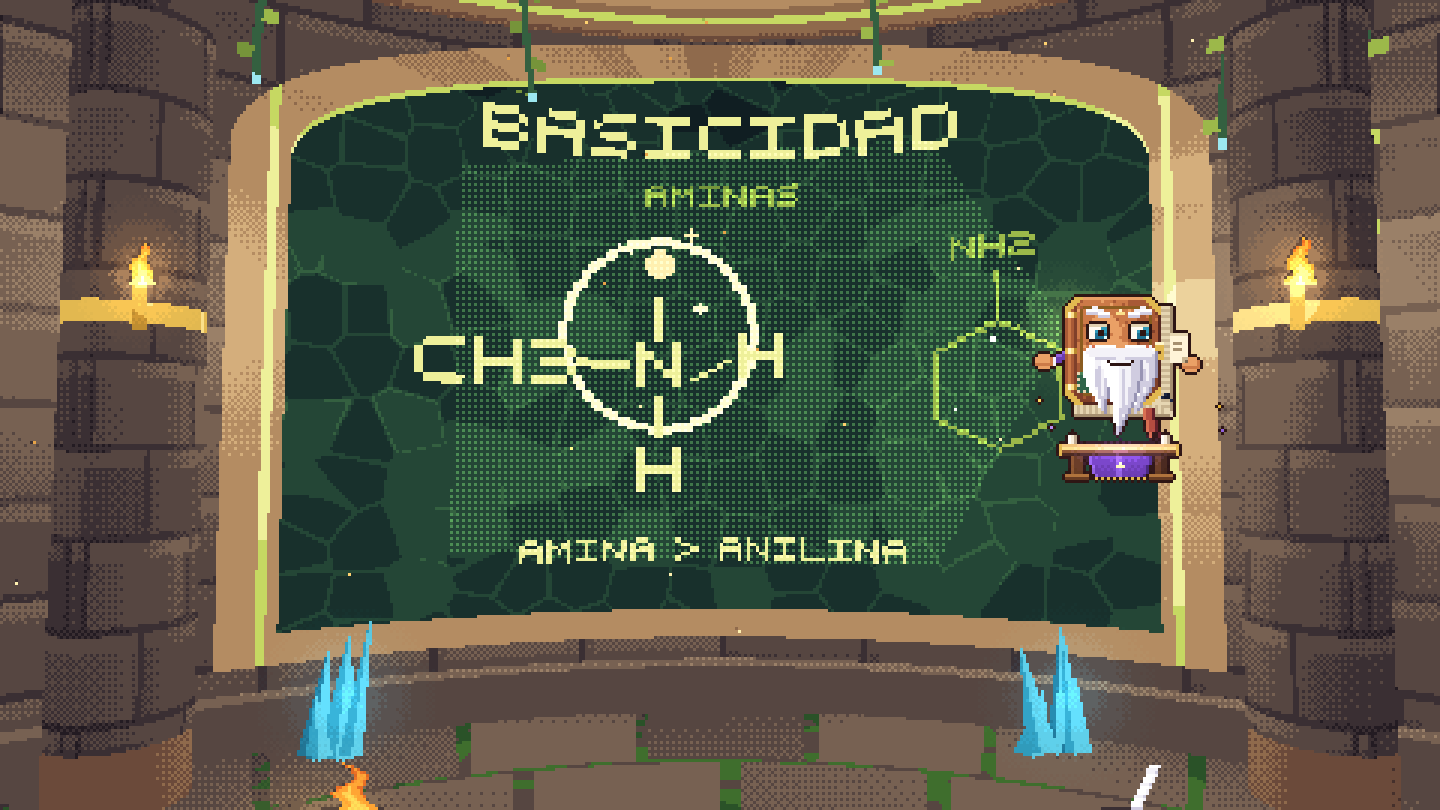
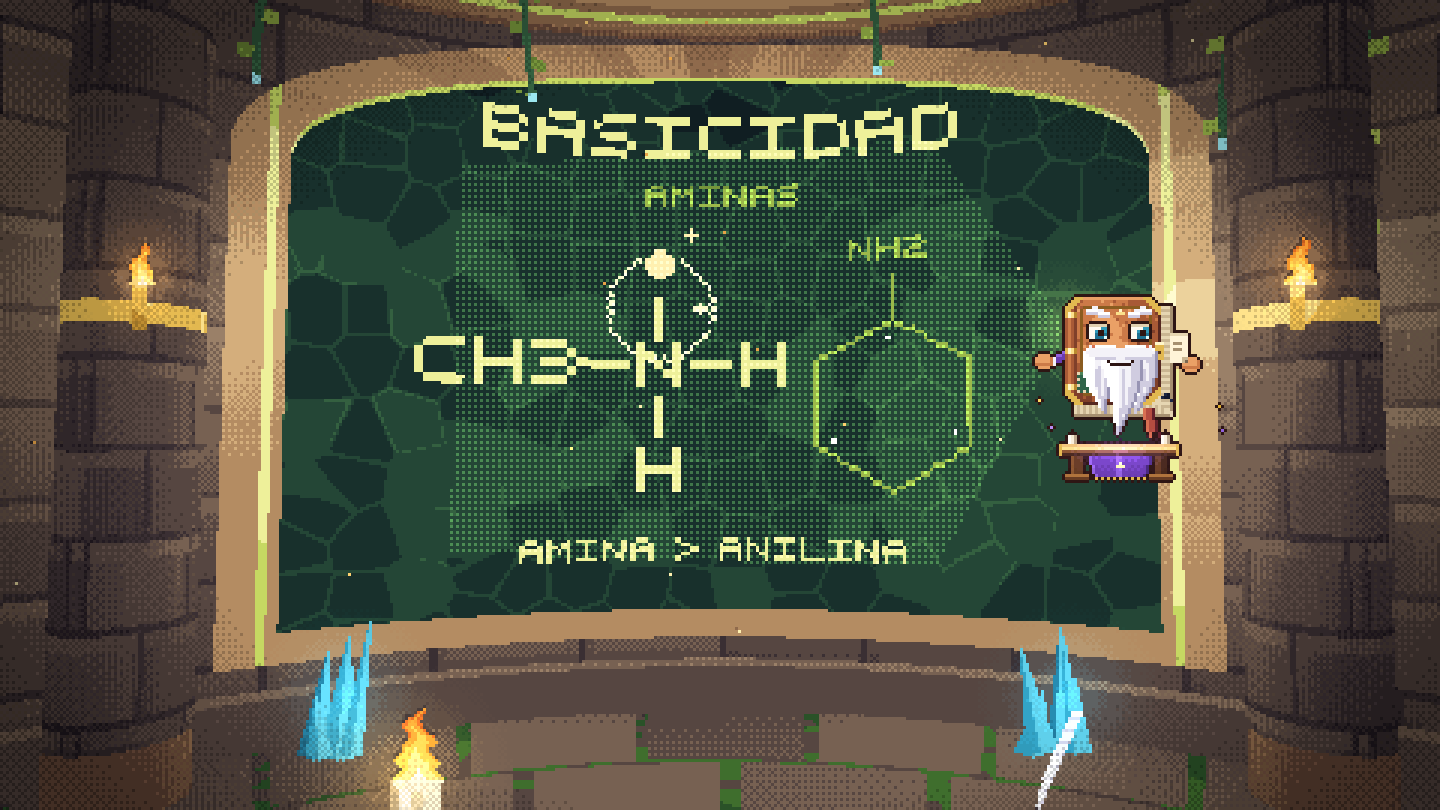
Salas del Sótano: Aula vista de pie (atril de piedra con canto y pie, sala y muro detrás) y molécula del muro corregida
Claude-Session: https://claude.ai/code/session_01Ta4oybX2ATYP5yHhtoAP4u

diff --git a/tools/salas-sotano/aula.py b/tools/salas-sotano/aula.py
@@ -21,7 +21,7 @@ PILLARS = [(a, 4.5) for a in (0.66, -0.66, 1.2, -1.2, 1.85, -1.85)]
 PR = 0.28
 # atril: centro de la tapa, inclinación y medidas (s = a lo ancho, q = a lo largo de la pendiente)
 SLANT = math.radians(25)
-Q = np.array([0.0, 1.13, 0.27], np.float32)
+Q = np.array([0.0, 1.13, 0.40], np.float32)
 EX = np.array([1.0, 0.0, 0.0], np.float32)
 EA = np.array([0.0, math.sin(SLANT), math.cos(SLANT)], np.float32)
 NP = np.array([0.0, math.cos(SLANT), -math.sin(SLANT)], np.float32)
@@ -68,9 +68,8 @@ def proj_tex(p):
     put('N', nx - 3, ny - 4, 2)
     T[ny + 8:ny + 18, nx + 1:nx + 3] = 2
     put('H', nx - 3, ny + 20, 2)
-    for i in range(10):
-        T[ny + 4 - i // 2, nx + 9 + i] = 2
-    put('H', nx + 20, ny - 6, 2)
+    T[ny:ny + 2, nx + 9:nx + 19] = 2
+    put('H', nx + 21, ny - 4, 2)
     bond = ease((p - 0.55) / 0.15)
     if bond < 1:
         for dx in (-3, 3):
@@ -95,12 +94,12 @@ def proj_tex(p):
         T[ny - 4 - n:ny - 4, nx + 1:nx + 3] = 2
         put('+', nx + 9, ny - 14, 5, 1)
     if 0.55 < p < 0.8:
-        r = 4 + (p - 0.55) * 90
+        r = 4 + (p - 0.55) * 40
         yy, xx = np.mgrid[0:TH, 0:TW]
-        d = np.hypot(xx - (nx + 2), yy - (ny - 6))
-        T[(np.abs(d - r) < 1.0) & (T == 0)] = 5
+        d = np.hypot(xx - (nx + 2), yy - (ny - 12))
+        T[(np.abs(d - r) < 0.8) & (T == 0) & ((xx + yy) % 2 == 0)] = 5
     # a la derecha, la anilina: el par se reparte en el anillo (menos disponible)
-    cx, cy, rr = 150, 72, 14
+    cx, cy, rr = 128, 76, 19
     pts = [(cx + rr * math.cos(math.radians(30 + 60 * k)), cy + rr * math.sin(math.radians(30 + 60 * k))) for k in range(6)]
     img = Image.fromarray(T)
     d = ImageDraw.Draw(img)
@@ -256,11 +255,11 @@ def build_frame(cam, t, p, read):
     # --- atril ---
     m = reg == 5
     grain = cm.h2(np.floor(s * 140), np.floor(q * 60))
-    c.mask(m, 'wall', 1.5 + grain * 0.4)
-    c.mask(m & ((np.abs(s) > PLATE[0] - 0.022) | (np.abs(q) > PLATE[1] - 0.022)), 'brass', 3.3)
-    inl = m & (((np.abs(np.abs(s) - (PLATE[0] - 0.04)) < 0.004) & (np.abs(q) < PLATE[1] - 0.036)) |
-               ((np.abs(np.abs(q) - (PLATE[1] - 0.036)) < 0.004) & (np.abs(s) < PLATE[0] - 0.04)))
-    c.mask(inl, 'sprout', 5.4)
+    # tapa de piedra pulida con bisel: el borde de arriba recibe luz, el de abajo queda en sombra
+    c.mask(m, 'stone', 1.3 + grain * 0.5 + cm.h2(np.floor(s * 30), np.floor(q * 22)) * 0.4)
+    rim = m & ((np.abs(s) > PLATE[0] - 0.018) | (np.abs(q) > PLATE[1] - 0.018))
+    c.mask(rim, 'brass', np.where(q > 0, 2.0, np.where(q < -PLATE[1] + 0.009, 1.1, 1.8)))
+    c.mask(rim & (np.abs(s) > PLATE[0] - 0.006), 'brass', 1.2)
     cov = m & (np.abs(s) < COVER[0]) & (np.abs(q) < COVER[1])
     c.mask(cov, 'lav', 2.4 + np.where(np.abs(q) > COVER[1] - 0.006, 1.0, 0))
     pg = m & (np.abs(s) < PAGE[0]) & (np.abs(q) < PAGE[1])
@@ -272,6 +271,28 @@ def build_frame(cam, t, p, read):
     rib_ = m & (s > 0.018) & (s < 0.032) & (q < -0.11) & (q > -PLATE[1] + 0.03)
     c.mask(rib_, 'red', 3.6 - (s - 0.018) * 60)
     N[m] = NP
+    # canto de la tapa y pie del atril (columna de piedra con anillo de latón)
+    edge = [wpt(sx, -PLATE[1]) for sx in (-PLATE[0], PLATE[0])]
+    low = [e - np.array([0, 0.055, 0], np.float32) for e in edge[::-1]]
+    pr = [cam.project(p_) for p_ in edge + low]
+    if min(z_ for *_, z_ in pr) > 0.05:
+        face = cm.poly_mask([(x_, y_) for x_, y_, _ in pr]) & (reg != 5)
+        c.mask(face, 'stone', 0.9 + np.broadcast_to(cm.h2(np.floor(np.arange(W) / 3), 1)[None, :] * 0.3, (H, W)))
+        N[face] = (0, 0, -1)
+        c.mask(face & (np.abs(np.arange(H)[:, None] - min(pr[0][1], pr[1][1])) < 1.2), 'brass', 1.6)
+    yy, xx = np.mgrid[0:H, 0:W]
+    top_c = cam.project(Q - np.array([0, 0.09, 0], np.float32))
+    bot_c = cam.project(np.array([Q[0], 0.0, Q[2] - 0.05], np.float32))
+    if top_c[2] > 0.05 and bot_c[2] > 0.05:
+        sc_t, sc_b = cam.f / top_c[2], cam.f / bot_c[2]
+        k = np.clip((yy - top_c[1]) / max(1.0, bot_c[1] - top_c[1]), 0, 1)
+        half = (0.075 + 0.06 * (k > 0.86)) * (sc_t + (sc_b - sc_t) * k)
+        dx = (xx - top_c[0]) / np.maximum(half, 1)
+        col = (np.abs(dx) < 1) & (yy > top_c[1]) & (yy < bot_c[1]) & (reg != 5)
+        c.mask(col, 'stone', 0.6 + (1 - np.abs(dx + 0.35)) * 1.5)
+        c.mask(col & (np.abs(k - 0.18) < 0.025), 'brass', 2.2 - dx * 0.8)
+        nrm = np.stack([dx, np.zeros_like(dx), -np.sqrt(np.clip(1 - dx ** 2, 0, 1))], -1)
+        N[col] = nrm[col]
     # --- luces ---
     fl = lambda i, f: 1 + 0.09 * math.sin(t * f + i * 2.3) + 0.05 * math.sin(t * f * 2.7 + i)
     lights = [(tp, 2.4 * fl(i, 11), 1.15) for i, tp in enumerate(TORCHES)]
@@ -411,6 +432,10 @@ def render(cam, t, p, read):
                 pixel.glow(arr, x, y, 46 * f, '#ffc850', 0.65, 5)
             elif kind == 'crystal':
                 pixel.glow(arr, x, y, 34, '#3098b8', 0.6, 4)
+        # penumbra en los bordes, por escalones tramados (no un degradado liso)
+        r = np.hypot((xx - W / 2) / (W / 2), (yy - H * 0.55) / (H * 0.6))
+        dark = np.clip((r - 0.75) * 1.6, 0, 0.6)
+        arr *= (1 - np.floor((dark + bay * 0.25) * 4) / 4 * 0.75)[..., None]
     img = c.render(scale=1, post=post)
     rgb = np.array(img, np.float32)
     if gz > 0.3:
@@ -488,7 +513,7 @@ def pages(big, cam, read):
 def cam_at(k):
     """k = 0 mirando el muro, k = 1 leyendo el tomo."""
     e = ease(k)
-    return cm.Cam(EYE, pitch_deg=3 + (-46 - 3) * e, hfov=84 + (70 - 84) * e)
+    return cm.Cam(EYE, pitch_deg=3 + (-27 - 3) * e, hfov=84 + (64 - 84) * e)
 
 
 def main():

diff --git a/docs/salas-sotano/SPEC.md b/docs/salas-sotano/SPEC.md
@@ -11,6 +11,7 @@ Chat de diseño (24 oct 2026). Estado: **bocetos para aprobar**; aún no hay SPE
 - **Aula** (clases guiadas) = atril + muro de cristal en la misma sala: al mirar el muro, el Grimorio proyecta la idea animada; al bajar la mirada, lees y respondes en el tomo. Boceto: `aula-muro.png`, `aula-tomo.png`, `aula.gif`.
 - **Taller** (materiales con ejercicios) = Mesa del alquimista: el ejercicio se resuelve con objetos (pinza, átomos, pozos); el acierto llena un frasco de misión. Boceto: `mesa.png`, `mesa-rebote.png`, `mesa.gif`.
 - **Arena** (juegos): estilo por definir.
+- Ajuste 25 oct: el tomo se ve **de pie y en ángulo** (se ve la sala y el muro detrás), atril de piedra con canto y pie, sin filetes verdes; molécula del muro corregida (CH3–N̈–H con H abajo, anilina más grande).
 - Mundo en pixel art a **480×270** (más detalle que los 320×200 del pasillo); el texto que se estudia, **nítido** y en perspectiva sobre el objeto.
 - Correr: `python tools/salas-sotano/aula.py [cuadros]` y `python tools/salas-sotano/mesa.py [cuadros]` (los GIF no se suben: ~40 s y ~30 s).
 
@@ -20,6 +21,7 @@ Chat de diseño (24 oct 2026). Estado: **bocetos para aprobar**; aún no hay SPE
 - `dist/aprender/img` pesa 69 MB (el límite del SPEC era 20 MB).
 
 ## Pendiente (preguntas abiertas)
+- Los sprites del Grimorio y la mascota se leen de una carpeta temporal (`NEXO_SPRITES`): pasarlos a un script del repo antes de implementar.
 - ¿Atril y muro juntos? ¿Salas por ramo, comunes o en fila? ¿Qué reemplaza a las puertas?
 - ¿Texto nítido sobre el mundo pixel o todo en pixel art?
 - Formato técnico: prototipo en vivo de una sala, medido en el celular de Niquito (p95 ≤ 20 ms por cuadro, ≤ 3 MB por sala, lectura nítida en 390 y 1440) antes de decidir entre en vivo e híbrido.
